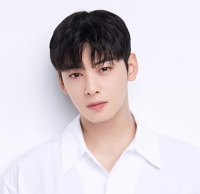
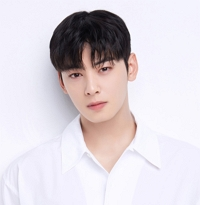
up

diff --git a/public/member/memberModForm.html b/public/member/memberModForm.html
@@ -88,21 +88,16 @@
 	<div class="container">
 		<p class="fs-5 fw-semibold"><i class="fa-solid fa-pen-to-square"></i>기본정보</p>
 	</div>
-	
-	
-	
-	
-	
-	
 	<div class="container">
 		<div class="row">
 			<div class="col-2">
 				<div class="row">
-					<div class="input-group">
-						<span class="input-group-text" style="width: 15rem;">사진</span>
-					</div>
-					<div class="input-group">
-						<input type="text" aria-label="First name" class="form-control" value="차은우.jpg" style="height: 12rem;">
+					<div class="col-12 p-2 bg-secondary bg-opacity-10 border border-secondary border-opacity-10 rounded-3">사진</div>
+					<div class="col-12 bg-white border border-secondary border-opacity-25 rounded-3" style="height: 12rem;">
+						<div class="input-group image-container"> 
+						    <img id="preview-image" src="../image/cha2.jpg">
+						    <input style="display: block;" type="file" id="input-image">
+						</div>
 					</div>
 				</div>	
 			</div>										
@@ -310,6 +305,11 @@
 		</div>
 	</div>
 	<br>
+	<div class="container">
+		<button type="button" class="btn btn-outline-dark">추가하기</button>
+		<button type="button" class="btn btn-outline-dark">삭제하기</button>
+	</div>
+	<br>
 	<br>
 	<div class="container">
 		<p class="fs-5 fw-semibold"><i class="fa-solid fa-pen-to-square"></i>교육연수</p>
@@ -344,6 +344,11 @@
 				</div>
 			</div>
 		</div>
+	</div>
+	<br>
+	<div class="container">
+		<button type="button" class="btn btn-outline-dark">추가하기</button>
+		<button type="button" class="btn btn-outline-dark">삭제하기</button>
 	</div>
 	<br>
 	<br>
@@ -409,6 +414,11 @@
 				</div>
 			</div>
 		</div>
+	</div>
+	<br>
+	<div class="container">
+		<button type="button" class="btn btn-outline-dark">추가하기</button>
+		<button type="button" class="btn btn-outline-dark">삭제하기</button>
 	</div>
 	<br>
 	<br>
@@ -501,6 +511,11 @@
 		</div>
 	</div>
 	<br>
+	<div class="container">
+		<button type="button" class="btn btn-outline-dark">추가하기</button>
+		<button type="button" class="btn btn-outline-dark">삭제하기</button>
+	</div>
+	<br>
 	<br>
 	<div class="container">
 		<p class="fs-5 fw-semibold"><i class="fa-solid fa-pen-to-square"></i>자기소개서</p>
@@ -553,5 +568,27 @@
 <!-- end	 -->
 	<script src="https://cdn.jsdelivr.net/npm/bootstrap@5.2.0-beta1/dist/js/bootstrap.bundle.min.js" integrity="sha384-pprn3073KE6tl6bjs2QrFaJGz5/SUsLqktiwsUTF55Jfv3qYSDhgCecCxMW52nD2" crossorigin="anonymous"></script>
 	<script src="https://kit.fontawesome.com/1d7c148109.js" crossorigin="anonymous"></script>
+	<script type="text/javascript">
+		function readImage(input) {
+		    // 인풋 태그에 파일이 있는 경우
+		    if(input.files && input.files[0]) {
+		        // 이미지 파일인지 검사 (생략)
+		        // FileReader 인스턴스 생성
+		        const reader = new FileReader()
+		        // 이미지가 로드가 된 경우
+		        reader.onload = e => {
+		            const previewImage = document.getElementById("preview-image")
+		            previewImage.src = e.target.result
+		        }
+		        // reader가 이미지 읽도록 하기
+		        reader.readAsDataURL(input.files[0])
+		    }
+		}
+		// input file에 change 이벤트 부여
+		const inputImage = document.getElementById("input-image")
+		inputImage.addEventListener("change", e => {
+		    readImage(e.target)
+		})
+	</script>
 </body>
 </html>

diff --git a/public/member/memberRegForm.html b/public/member/memberRegForm.html
@@ -304,6 +304,11 @@
 		</div>
 	</div>
 	<br>
+	<div class="container">
+		<button type="button" class="btn btn-outline-dark">추가하기</button>
+		<button type="button" class="btn btn-outline-dark">삭제하기</button>
+	</div>
+	<br>
 	<br>
 	<div class="container">
 		<p class="fs-5 fw-semibold"><i class="fa-solid fa-pen-to-square"></i>교육연수</p>
@@ -340,6 +345,11 @@
 				</div>
 			</div>
 		</div>
+	</div>
+	<br>
+	<div class="container">
+		<button type="button" class="btn btn-outline-dark">추가하기</button>
+		<button type="button" class="btn btn-outline-dark">삭제하기</button>
 	</div>
 	<br>
 	<br>
@@ -405,6 +415,11 @@
 				</div>
 			</div>
 		</div>
+	</div>
+	<br>
+	<div class="container">
+		<button type="button" class="btn btn-outline-dark">추가하기</button>
+		<button type="button" class="btn btn-outline-dark">삭제하기</button>
 	</div>
 	<br>
 	<br>
@@ -495,6 +510,11 @@
 				</div>
 			</div>
 		</div>
+	</div>
+	<br>
+	<div class="container">
+		<button type="button" class="btn btn-outline-dark">추가하기</button>
+		<button type="button" class="btn btn-outline-dark">삭제하기</button>
 	</div>
 	<br>
 	<br>
